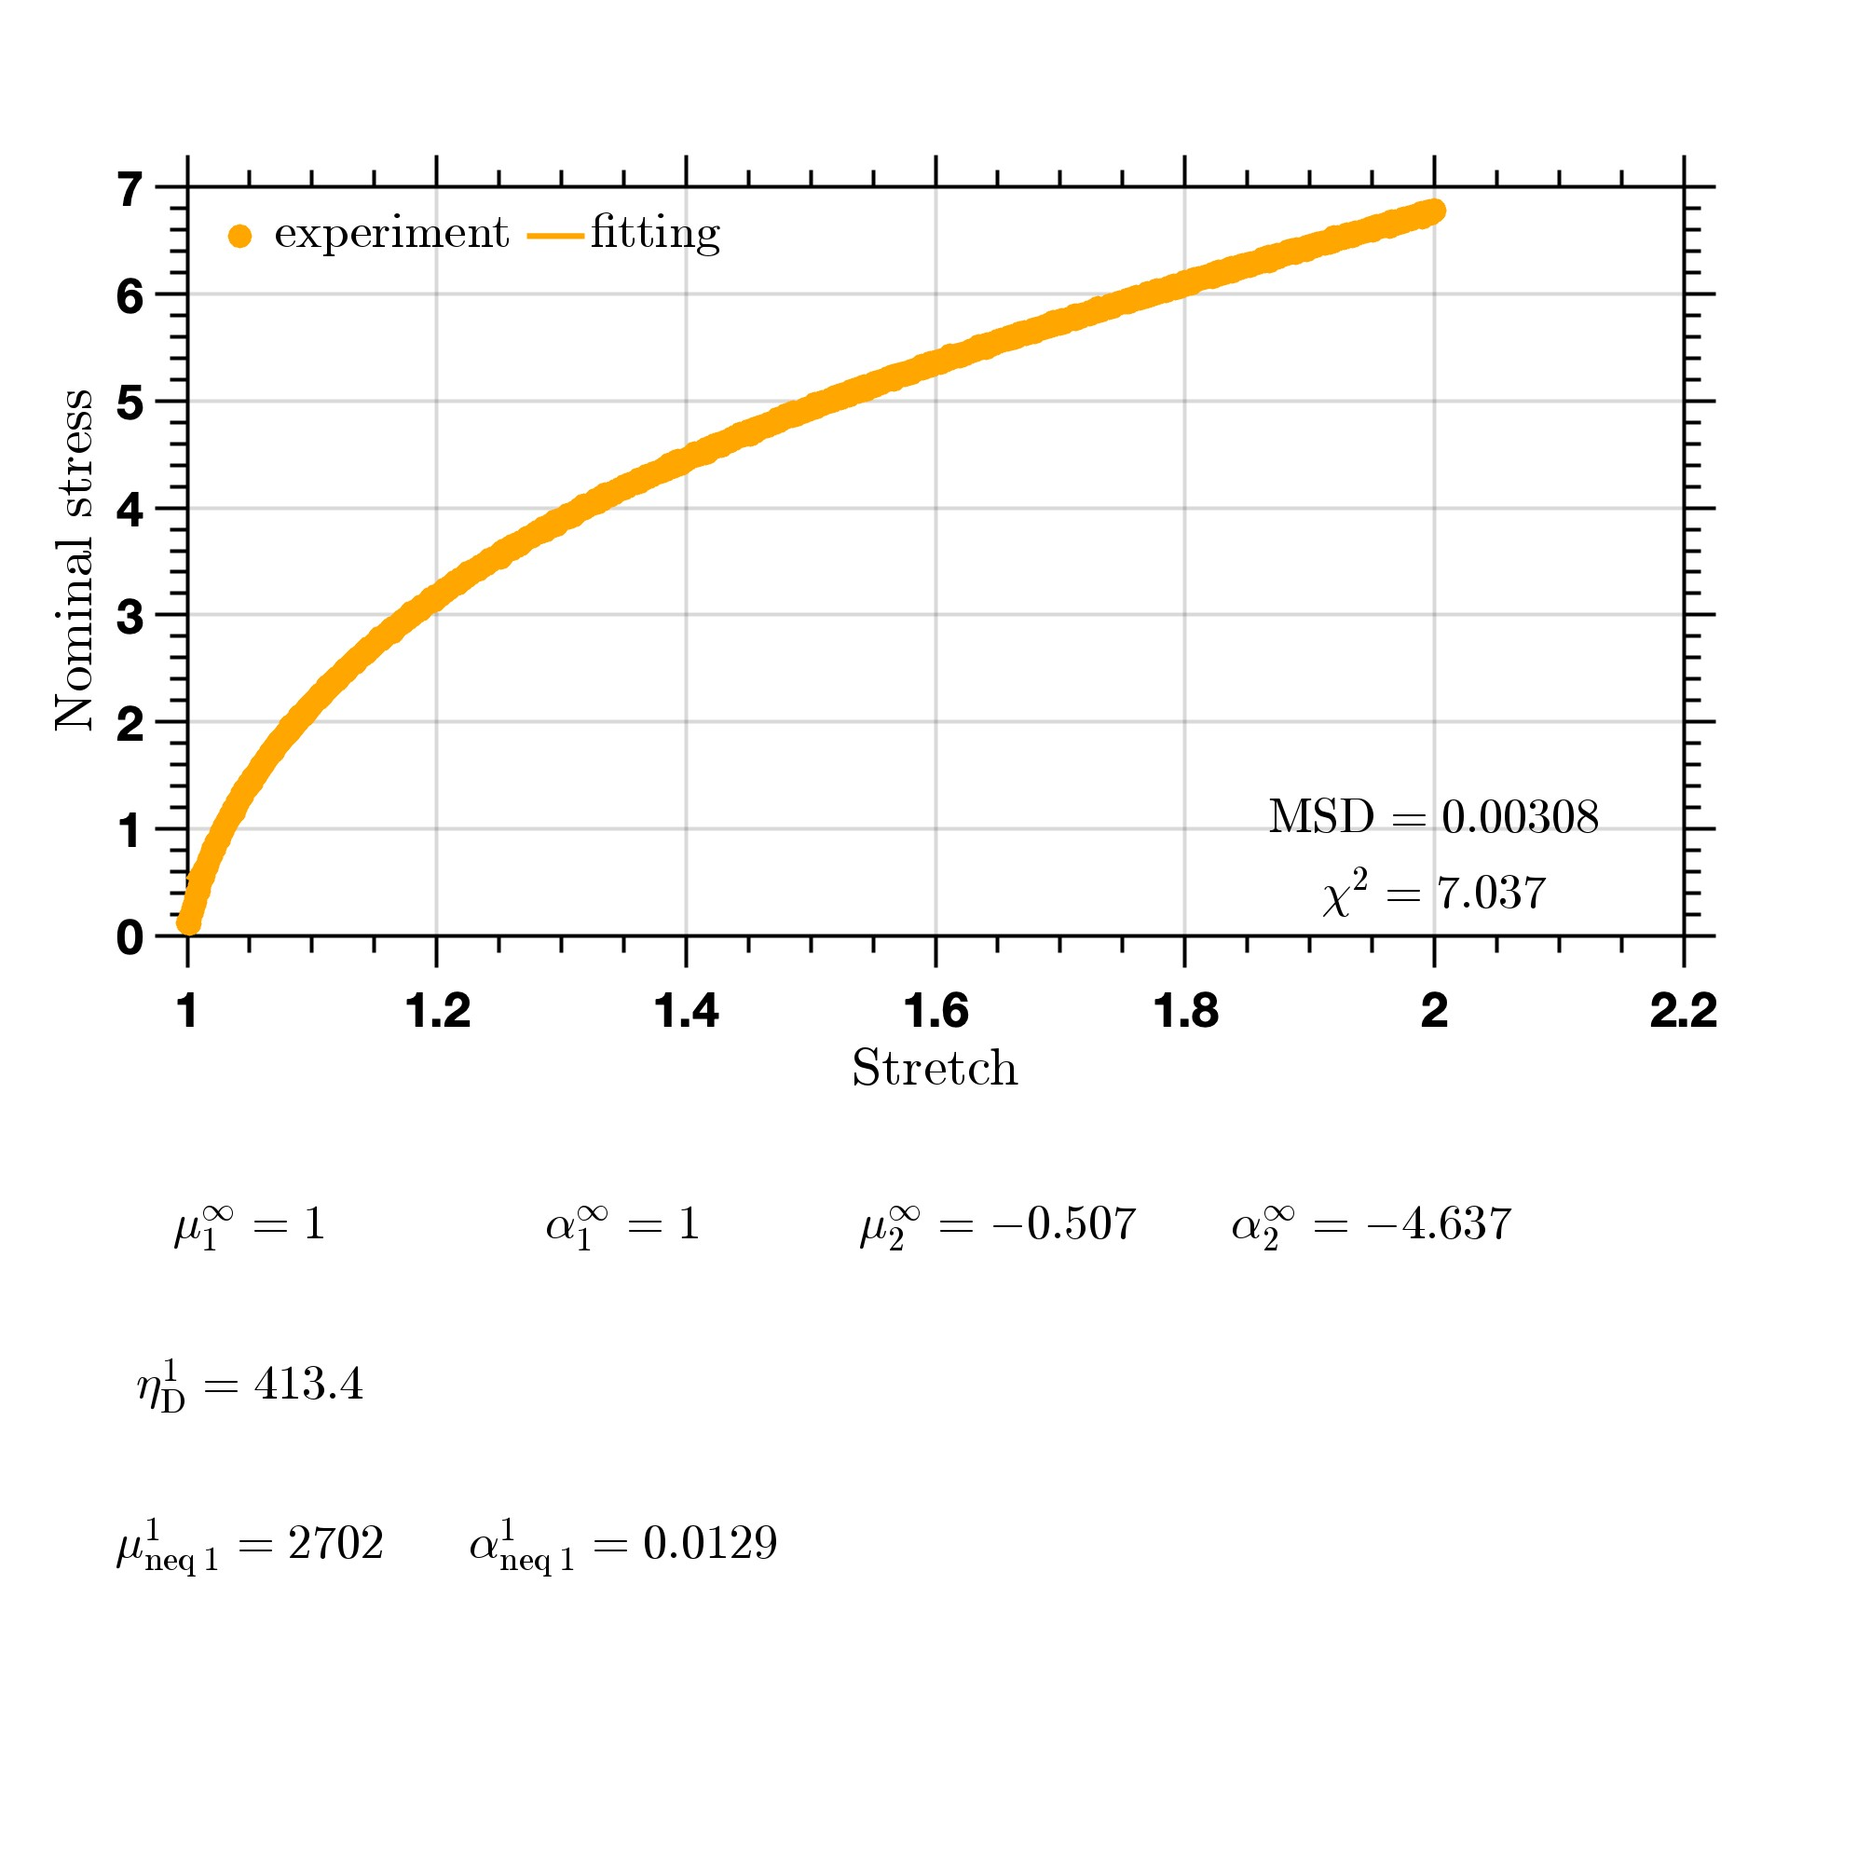
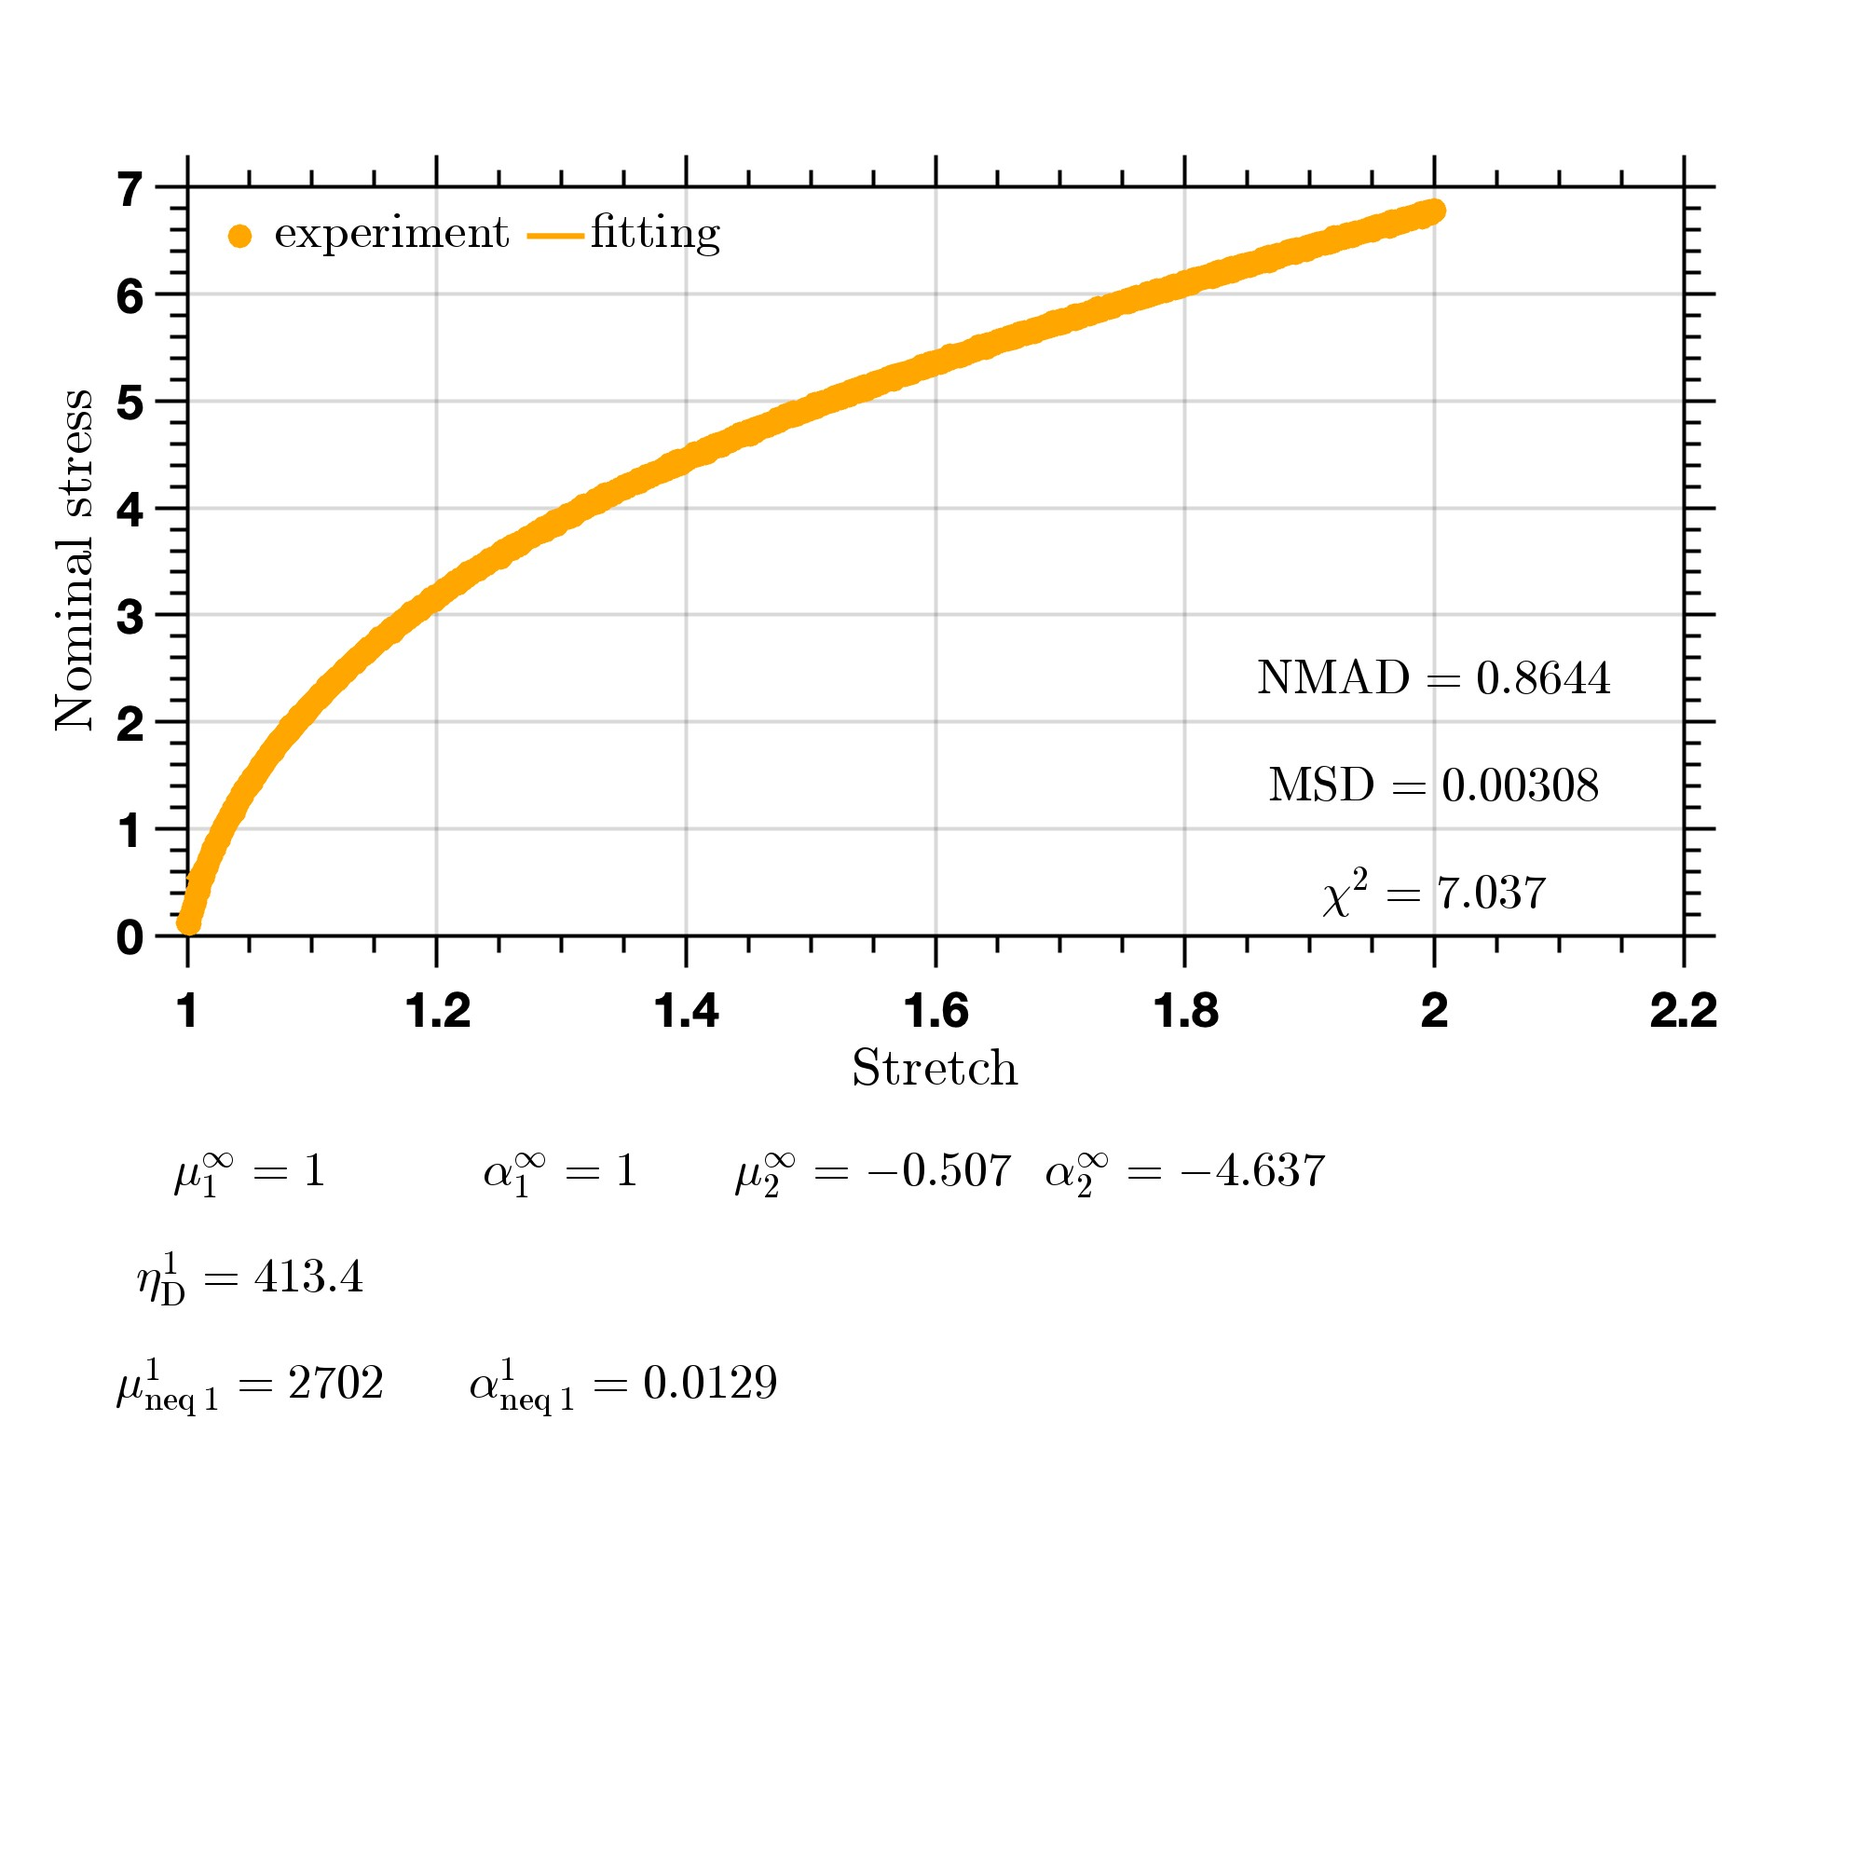
update

diff --git a/additive/src/plot_result.m b/additive/src/plot_result.m
@@ -26,7 +26,7 @@ set(ax, 'TickDir', 'out', ...
     'LineWidth', 2, ...
     'FontSize', 25, 'FontWeight', 'bold');
 
-l = legend(ax, 'experiment', 'fitting', 'location', 'northeast', 'Orientation', 'horizontal');
+l = legend(ax, 'experiment', 'fitting', 'location', 'northwest', 'Orientation', 'horizontal');
 set(l, 'interpreter', 'latex', 'fontsize', 25, 'box', 'off', 'FontWeight', 'bold', 'FontName', 'Helvetica', 'NumColumns', 4);
 
 X = 40.0;
@@ -41,8 +41,8 @@ set(gcf, 'PaperSize', [X Y]);
 set(gcf, 'PaperPosition', [xMargin yMargin xSize ySize]);
 set(gcf, 'PaperOrientation', 'portrait');
 
-x_location = 2.01;
-y_location = 0.1;
+x_location = 1.5;
+y_location = 0.2;
 % print quality of fit
 chi = get_quality_of_fit(P1_list, P1_exp);
 text_chi = sprintf('$\\chi^2 = %.4g$', chi);
@@ -53,7 +53,7 @@ text(x_location, y_location, text_chi, ...
     'FontSize', 25, 'FontWeight', 'bold', 'Color', 'k', 'FontName', 'Helvetica');
 
 % print MSD
-y_location = y_location + 0.7;
+y_location = y_location + 1;
 MSD = get_MSD(P1_list, P1_exp);
 text_MSD = sprintf('$\\mathrm{MSD}=%.4g$', MSD);
 text(x_location, y_location, text_MSD, ...
@@ -62,53 +62,63 @@ text(x_location, y_location, text_MSD, ...
     'Interpreter', 'latex', ...
     'FontSize', 25, 'FontWeight', 'bold', 'Color', 'k', 'FontName', 'Helvetica');
 
+% print NMAD
+y_location = y_location + 1;
+NMAD = get_NMAD(P1_list, P1_exp);
+text_NMAD = sprintf('$\\mathrm{NMAD}=%.4g$', NMAD);
+text(x_location, y_location, text_NMAD, ...
+    'HorizontalAlignment', 'center', ...
+    'VerticalAlignment', 'bottom', ...
+    'Interpreter', 'latex', ...
+    'FontSize', 25, 'FontWeight', 'bold', 'Color', 'k', 'FontName', 'Helvetica');
 
 % print parameters
 text_mu_eq = cell(length(mu_eq), 1);
 text_m_eq = cell(length(m_eq), 1);
 text_n_eq = cell(length(n_eq), 1);
 
-x_location = 1.03;
+x_location = 1.1;
+y_location = -4;
 for ii = 1:length(mu_eq)
     text_mu_eq{ii} = sprintf('$\\mu_%d^{\\infty} = %.4g$', ii, mu_eq(ii));
-    text(x_location, -4.0, text_mu_eq{ii}, ...
+    text(x_location, y_location, text_mu_eq{ii}, ...
         'HorizontalAlignment', 'center', ...
         'VerticalAlignment', 'bottom', ...
         'Interpreter', 'latex', ...
         'FontSize', 25, 'FontWeight', 'bold', 'Color', 'k', 'FontName', 'Helvetica');
-    x_location = x_location + 0.25;
+    x_location = x_location + 0.15;
 
     text_m_eq{ii} = sprintf('$m_%d^{\\infty} = %.4g$', ii, m_eq(ii));
-    text(x_location, -4.0, text_m_eq{ii}, ...
+    text(x_location, y_location, text_m_eq{ii}, ...
         'HorizontalAlignment', 'center', ...
         'VerticalAlignment', 'bottom', ...
         'Interpreter', 'latex', ...
         'FontSize', 25, 'FontWeight', 'bold', 'Color', 'k', 'FontName', 'Helvetica');
-    x_location = x_location + 0.25;
+    x_location = x_location + 0.15;
 
     text_n_eq{ii} = sprintf('$n_%d^{\\infty} = %.4g$', ii, n_eq(ii));
-    text(x_location, -4.0, text_n_eq{ii}, ...
+    text(x_location, y_location, text_n_eq{ii}, ...
         'HorizontalAlignment', 'center', ...
         'VerticalAlignment', 'bottom', ...
         'Interpreter', 'latex', ...
         'FontSize', 25, 'FontWeight', 'bold', 'Color', 'k', 'FontName', 'Helvetica');
-    x_location = x_location + 0.25;
+    x_location = x_location + 0.15;
 end
 
 text_mu_neq = cell(length(mu_neq), length(eta_d));
 text_m_neq = cell(length(m_neq), length(eta_d));
 text_n_neq = cell(length(n_neq), length(eta_d));
 text_eta = cell(length(eta_d), 1);
-y_location = -6.0;
+x_location = 1.1;
+y_location = y_location - 1;
 for ii = 1:length(eta_d)
-    x_location = 1.03;
     text_eta{ii} = sprintf('$\\eta_{\\mathrm{D}}^%d = %.4g$', ii, eta_d(ii));
     text(x_location, y_location, text_eta(ii), ...
         'HorizontalAlignment', 'center', ...
         'VerticalAlignment', 'bottom', ...
         'Interpreter', 'latex', ...
         'FontSize', 25, 'FontWeight', 'bold', 'Color', 'k', 'FontName', 'Helvetica');
-    y_location = y_location - 2.0;
+    y_location = y_location - 1;
     for jj = 1:size(mu_neq,1)
         text_mu_neq{ii}{jj} = sprintf('$\\mu_{\\mathrm{neq}\\:%d}^{%d} = %.4g$', jj, ii, mu_neq(jj,ii));
         text(x_location, y_location, text_mu_neq{ii}{jj}, ...
@@ -116,7 +126,7 @@ for ii = 1:length(eta_d)
             'VerticalAlignment', 'bottom', ...
             'Interpreter', 'latex', ...
             'FontSize', 25, 'FontWeight', 'bold', 'Color', 'k', 'FontName', 'Helvetica');
-        x_location = x_location + 0.3;
+        x_location = x_location + 0.15;
 
         text_m_neq{ii}{jj} = sprintf('$m_{\\mathrm{neq}\\:%d}^{%d} = %.4g$', jj, ii, m_neq(jj,ii));
         text(x_location, y_location, text_m_neq{ii}{jj}, ...
@@ -124,7 +134,7 @@ for ii = 1:length(eta_d)
             'VerticalAlignment', 'bottom', ...
             'Interpreter', 'latex', ...
             'FontSize', 25, 'FontWeight', 'bold', 'Color', 'k', 'FontName', 'Helvetica');
-        x_location = x_location + 0.3;
+        x_location = x_location + 0.15;
 
         text_n_neq{ii}{jj} = sprintf('$n_{\\mathrm{neq}\\:%d}^{%d} = %.4g$', jj, ii, n_neq(jj,ii));
         text(x_location, y_location, text_n_neq{ii}{jj}, ...
@@ -132,9 +142,9 @@ for ii = 1:length(eta_d)
             'VerticalAlignment', 'bottom', ...
             'Interpreter', 'latex', ...
             'FontSize', 25, 'FontWeight', 'bold', 'Color', 'k', 'FontName', 'Helvetica');
-        x_location = x_location + 0.3;
+        x_location = x_location + 0.15;
 
     end
-    y_location = y_location - 2.0;
+    y_location = y_location - 1.0;
 end
 end

diff --git a/multiplicative_Ogden_UT/src/plot_result.m b/multiplicative_Ogden_UT/src/plot_result.m
@@ -53,10 +53,20 @@ text(x_location, y_location, text_chi, ...
     'FontSize', 25, 'FontWeight', 'bold', 'Color', 'k', 'FontName', 'Helvetica');
 
 % print MSD
-y_location = y_location + 0.7;
+y_location = y_location + 1.0;
 MSD = get_MSD(P1_list, P1_exp);
 text_MSD = sprintf('$\\mathrm{MSD}=%.4g$', MSD);
 text(x_location, y_location, text_MSD, ...
+    'HorizontalAlignment', 'center', ...
+    'VerticalAlignment', 'bottom', ...
+    'Interpreter', 'latex', ...
+    'FontSize', 25, 'FontWeight', 'bold', 'Color', 'k', 'FontName', 'Helvetica');
+
+% print NMAD
+y_location = y_location + 1;
+NMAD = get_NMAD(P1_list, P1_exp);
+text_NMAD = sprintf('$\\mathrm{NMAD}=%.4g$', NMAD);
+text(x_location, y_location, text_NMAD, ...
     'HorizontalAlignment', 'center', ...
     'VerticalAlignment', 'bottom', ...
     'Interpreter', 'latex', ...
@@ -66,7 +76,7 @@ text(x_location, y_location, text_MSD, ...
 text_mu_eq = cell(length(mu_eq), 1);
 text_alpha_eq = cell(length(alpha_eq), 1);
 x_location = 1.05;
-y_location = -3.0;
+y_location = -2.5;
 for ii = 1:length(mu_eq)
     text_mu_eq{ii} = sprintf('$\\mu_%d^{\\infty} = %.4g$', ii, mu_eq(ii));
     text(x_location, y_location, text_mu_eq{ii}, ...
@@ -74,7 +84,7 @@ for ii = 1:length(mu_eq)
         'VerticalAlignment', 'bottom', ...
         'Interpreter', 'latex', ...
         'FontSize', 25, 'FontWeight', 'bold', 'Color', 'k', 'FontName', 'Helvetica');
-    x_location = x_location + 0.3;
+    x_location = x_location + 0.25;
 
     text_alpha_eq{ii} = sprintf('$\\alpha_%d^{\\infty} = %.4g$', ii, alpha_eq(ii));
     text(x_location, y_location, text_alpha_eq{ii}, ...
@@ -82,7 +92,7 @@ for ii = 1:length(mu_eq)
         'VerticalAlignment', 'bottom', ...
         'Interpreter', 'latex', ...
         'FontSize', 25, 'FontWeight', 'bold', 'Color', 'k', 'FontName', 'Helvetica');
-    x_location = x_location + 0.3;
+    x_location = x_location + 0.25;
 end
 
 text_mu_neq = cell(length(mu_neq), length(eta));
@@ -90,7 +100,7 @@ text_alpha_neq = cell(length(alpha_neq), length(eta));
 text_eta = cell(length(eta), 1);
 for ii = 1:length(eta)
     x_location = 1.05;
-    y_location = y_location - 1.5;
+    y_location = y_location - 1;
     text_eta{ii} = sprintf('$\\eta_{\\mathrm{D}}^%d = %.4g$', ii, eta(ii));
     text(x_location, y_location, text_eta(ii), ...
         'HorizontalAlignment', 'center', ...
@@ -98,7 +108,7 @@ for ii = 1:length(eta)
         'Interpreter', 'latex', ...
         'FontSize', 25, 'FontWeight', 'bold', 'Color', 'k', 'FontName', 'Helvetica');
     for jj = 1:size(mu_neq,1)
-        y_location = y_location - 1.5;
+        y_location = y_location - 1;
         text_mu_neq{ii}{jj} = sprintf('$\\mu_{\\mathrm{neq}\\:%d}^{%d} = %.4g$', jj, ii, mu_neq(jj,ii));
         text(x_location, y_location, text_mu_neq{ii}{jj}, ...
             'HorizontalAlignment', 'center', ...

diff --git a/additive/src/get_Gamma_t.m b/additive/src/get_Gamma_t.m
@@ -17,10 +17,10 @@ for ii = 1:length(time)
         dt = time(ii) - time(ii-1);
     end
     F_mid = 0.5 .* (F_old + F_new);
-    while error > 1e-6 && counter < 10
-        tangent = real(convert_4d_to_2d(get_res_tangent(mu_neq, m_neq, n_neq, eta_d, F_mid, Gamma_old, Gamma_new, dt)));
-        residual = real(convert_2d_to_1d(get_res(mu_neq, m_neq, n_neq, eta_d, F_mid, Gamma_old, Gamma_new, dt)));
-        incremental = real(convert_1d_to_2d(bicgstab(tangent, -residual)));
+    while error > 1e-6 && counter < 100
+        tangent = (convert_4d_to_2d(get_res_tangent(mu_neq, m_neq, n_neq, eta_d, F_mid, Gamma_old, Gamma_new, dt)));
+        residual = (convert_2d_to_1d(get_res(mu_neq, m_neq, n_neq, eta_d, F_mid, Gamma_old, Gamma_new, dt)));
+        incremental = (convert_1d_to_2d(bicgstab(tangent, -residual)));
         Gamma_new = Gamma_new + incremental;
         counter = counter + 1;
         error = norm(residual);

diff --git a/additive/main.m b/additive/main.m
@@ -2,7 +2,7 @@ clc; clear; close all
 
 addpath("src");
 
-fid = fopen('../exp_data_UT/data_0d1.txt', 'r');
+fid = fopen('../exp_data_UT/data_0d03.txt', 'r');
 data = textscan(fid, '%f %f %f', 'Delimiter', '\n');
 fclose(fid);
 
@@ -21,7 +21,7 @@ mu_eq = [1.0];
 m_eq = [1.0];
 n_eq = [1.0];
 
-mu_neq = [100.0];
+mu_neq = [1.0];
 m_neq = [1.0];
 n_neq = [1.0];
 eta_d = [1.0];
@@ -36,4 +36,4 @@ options = optimoptions('lsqnonlin', ...
 
 [paras, resnorm] = lsqnonlin( objectiveFunction, paras0, lb, ub, options);
 plot_result(paras, num_eq, num_neq, Ft, time, lambda1_exp, P1_exp);
-print(gcf, '-djpeg', 'fig_UT_0d1.jpg');
+print(gcf, '-djpeg', 'fig_UT_0d03.jpg');

diff --git a/additive/src/get_res_tangent.m b/additive/src/get_res_tangent.m
@@ -1,10 +1,9 @@
 % refer to Local Newton-Raphson iteration box of Liu, Guan, Zhao & Luo 2024 preprint
 function out = get_res_tangent(mu_neq, m_neq, n_neq, eta_d, F_mid, Gamma_old, Gamma_new, dt)
 out = get_idn_4d();
-C_mid = transpose(F_mid) * F_mid;
 Gamma_mid = 0.5 .* (Gamma_old + Gamma_new);
 Q_proj = get_proj_Q_neq(m_neq, n_neq, Gamma_mid);
-T = get_T_neq(mu_neq, m_neq, n_neq, C_mid, Gamma_mid);
+T = get_T_neq(mu_neq, m_neq, n_neq, F_mid, Gamma_mid);
 L_proj = get_proj_L(m_neq, n_neq, Gamma_mid);
 K_proj = -2.0 .* mu_neq .* contract(transpose_4d(Q_proj), Q_proj) + contract(T, L_proj);
 out = out - 0.5 .* dt .* K_proj ./ eta_d;

diff --git a/additive/src/get_res.m b/additive/src/get_res.m
@@ -1,7 +1,6 @@
 % refer to Local Newton-Raphson iteration box of Liu, Guan, Zhao & Luo 2024 preprint
 function out = get_res(mu_neq, m_neq, n_neq, eta_d, F_mid, Gamma_old, Gamma_new, dt)
-C_mid = transpose(F_mid) * F_mid;
 Gamma_mid = 0.5 .* (Gamma_old + Gamma_new);
-Q = contract(get_T_neq(mu_neq, m_neq, n_neq, C_mid, Gamma_mid), get_proj_Q_neq(m_neq, n_neq, Gamma_mid));
+Q = contract(get_T_neq(mu_neq, m_neq, n_neq, F_mid, Gamma_mid), get_proj_Q_neq(m_neq, n_neq, Gamma_mid));
 out = Gamma_new - Gamma_old - dt .* Q ./ eta_d;
 end

diff --git a/multiplicative_Ogden_UT/main.m b/multiplicative_Ogden_UT/main.m
@@ -2,7 +2,7 @@ clc; clear; close all
 
 addpath("src");
 
-fid = fopen('../exp_data_UT/data_0d3.txt', 'r');
+fid = fopen('../exp_data_UT/data_0d03.txt', 'r');
 data = textscan(fid, '%f %f %f', 'Delimiter', '\n');
 fclose(fid);
 
@@ -45,4 +45,4 @@ options = optimoptions('lsqnonlin', ...
 [paras, ~] = lsqnonlin( objectiveFunction, paras0, lb, ub, options);
 
 plot_result(paras, num_eq, num_neq, num_rel, Ft, time, lambda1_exp, P1_exp);
-print(gcf, '-djpeg', 'fig_UT_0d3.jpg');
+print(gcf, '-djpeg', 'fig_UT_0d03.jpg');

diff --git a/additive/src/get_NMAD.m b/additive/src/get_NMAD.m
@@ -1,0 +1,14 @@
+function out = get_NMAD(P_pre, P_exp)
+aa = 0.0;
+bb = 0.0;
+cc = 0.0;
+for ii = 1:length(P_pre)
+    aa = aa + abs(P_pre(ii) - P_exp(ii));
+    bb = bb + abs(P_exp(ii));
+    cc = cc + abs(P_pre(ii));
+end
+aa = aa / length(P_pre);
+bb = bb / length(P_exp);
+cc = cc / length(P_pre);
+out = 100 * aa / max(bb, cc);
+end

diff --git a/multiplicative_Ogden_UT/src/get_NMAD.m b/multiplicative_Ogden_UT/src/get_NMAD.m
@@ -1,0 +1,14 @@
+function out = get_NMAD(P_pre, P_exp)
+aa = 0.0;
+bb = 0.0;
+cc = 0.0;
+for ii = 1:length(P_pre)
+    aa = aa + abs(P_pre(ii) - P_exp(ii));
+    bb = bb + abs(P_exp(ii));
+    cc = cc + abs(P_pre(ii));
+end
+aa = aa / length(P_pre);
+bb = bb / length(P_exp);
+cc = cc / length(P_pre);
+out = 100 * aa / max(bb, cc);
+end

diff --git a/additive/monotonic_shear_driver.m b/additive/monotonic_shear_driver.m
@@ -19,9 +19,11 @@ m_eq = [1.0];
 n_eq = [1.0];
 
 mu_neq = [1.0];
-m_neq = [2.0];
-n_neq = [2.0];
-eta_d = [1];
+m_neq = [1.0];
+n_neq = [1.0];
+eta_d = [1.0];
+
+% out = get_Gamma_t(mu_neq, m_neq, n_neq, eta_d, Ft, time)
 
 [paras0, num_eq, num_neq, lb, ub] = array_to_paras(mu_eq, m_eq, n_eq, mu_neq, m_neq, n_neq, eta_d);
 

diff --git a/multiplicative_Ogden_UT/src/get_MSD.m b/multiplicative_Ogden_UT/src/get_MSD.m
@@ -1,0 +1,6 @@
+function out = get_MSD(P1_exp, P1_list)
+out = 0.0;
+for ii = 1:length(P1_exp)
+    out = out + (P1_exp(ii)-P1_list(ii)) .* (P1_exp(ii)-P1_list(ii))/ length(P1_exp);
+end
+end
